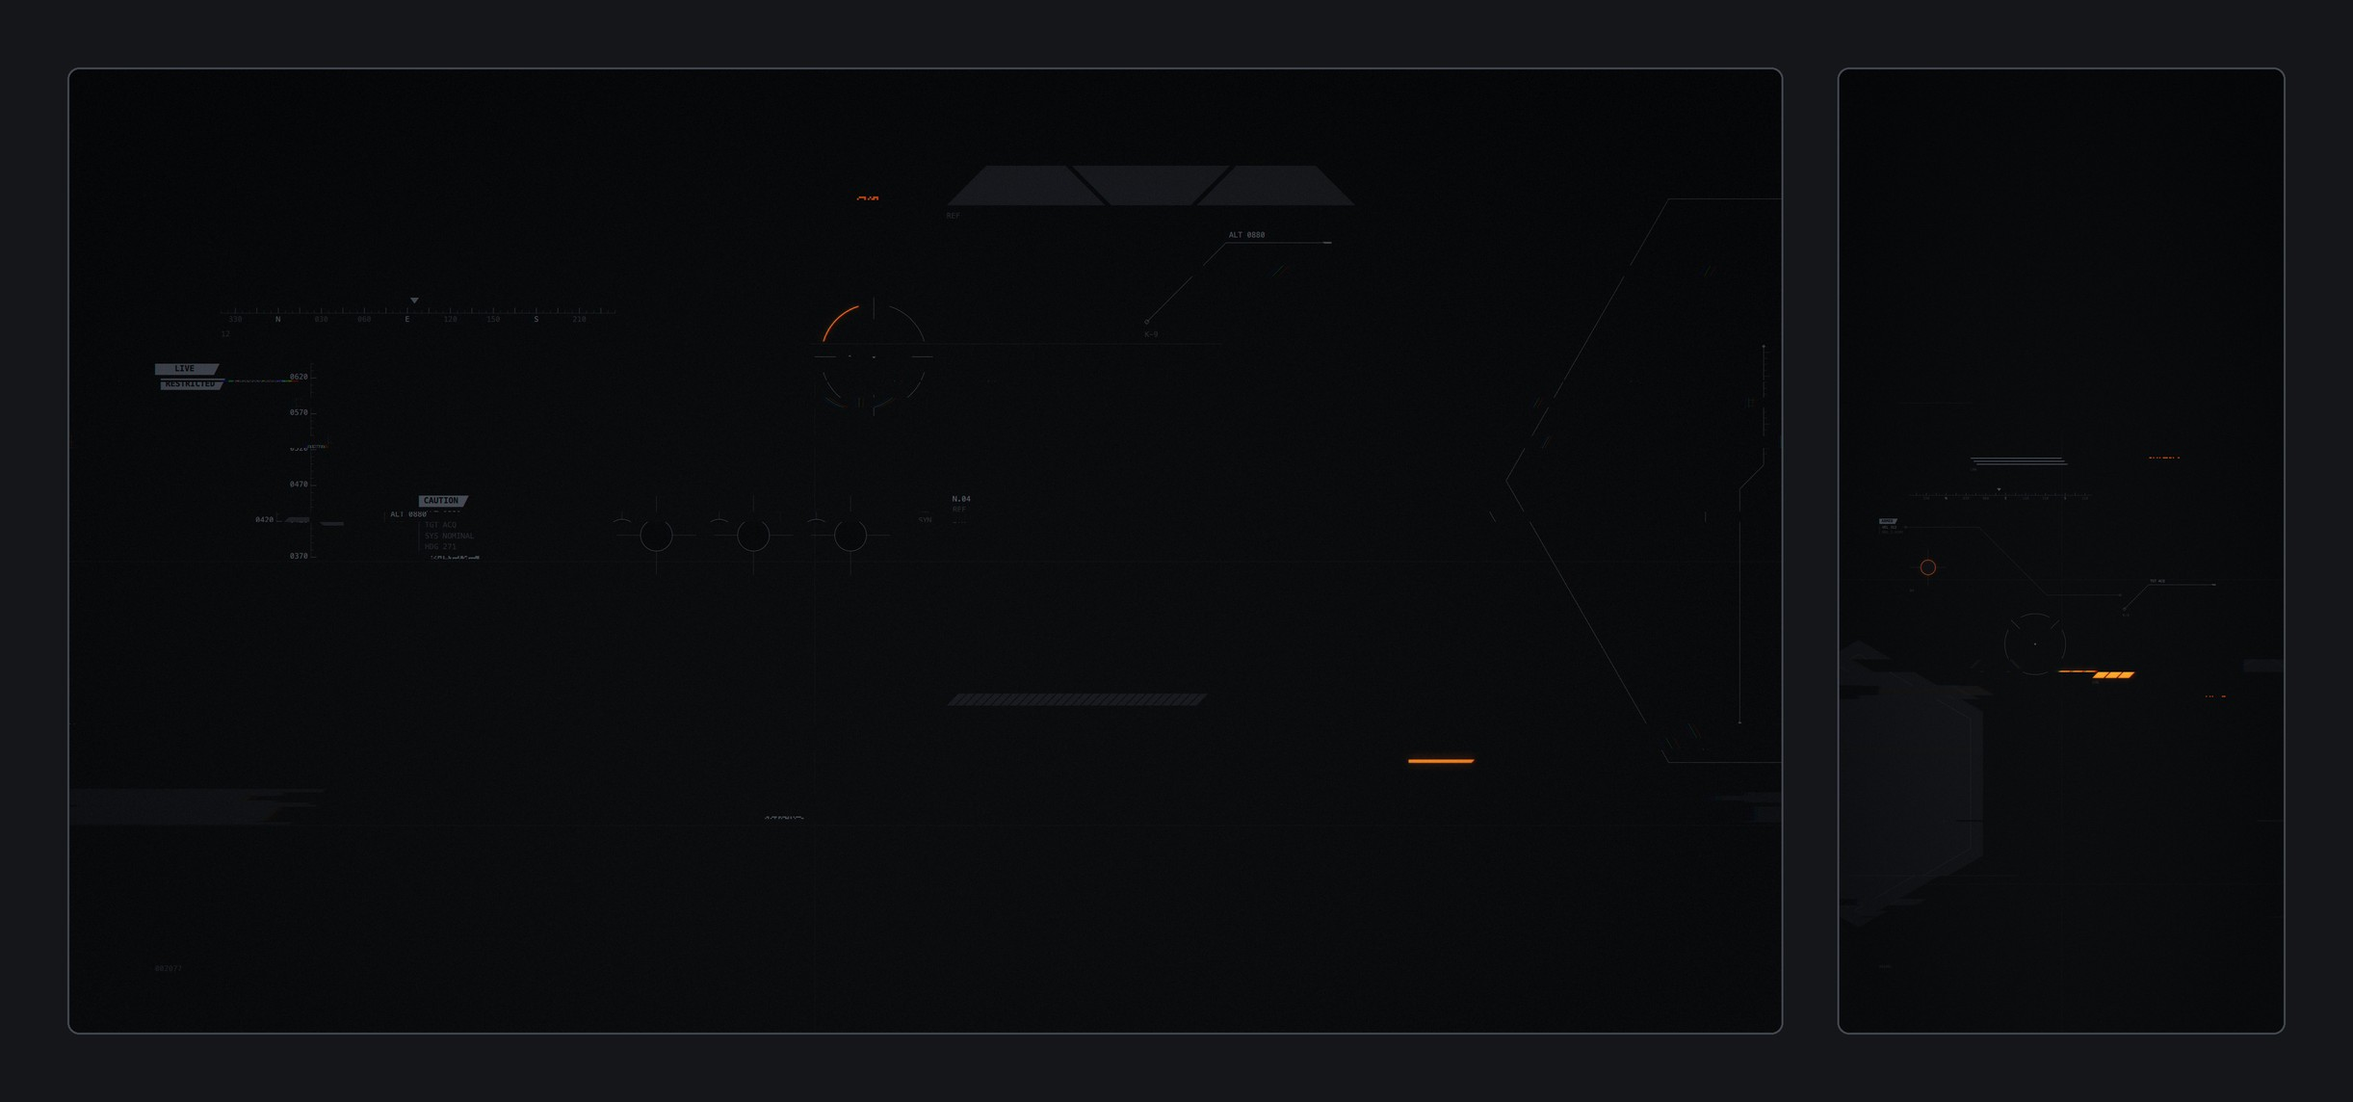
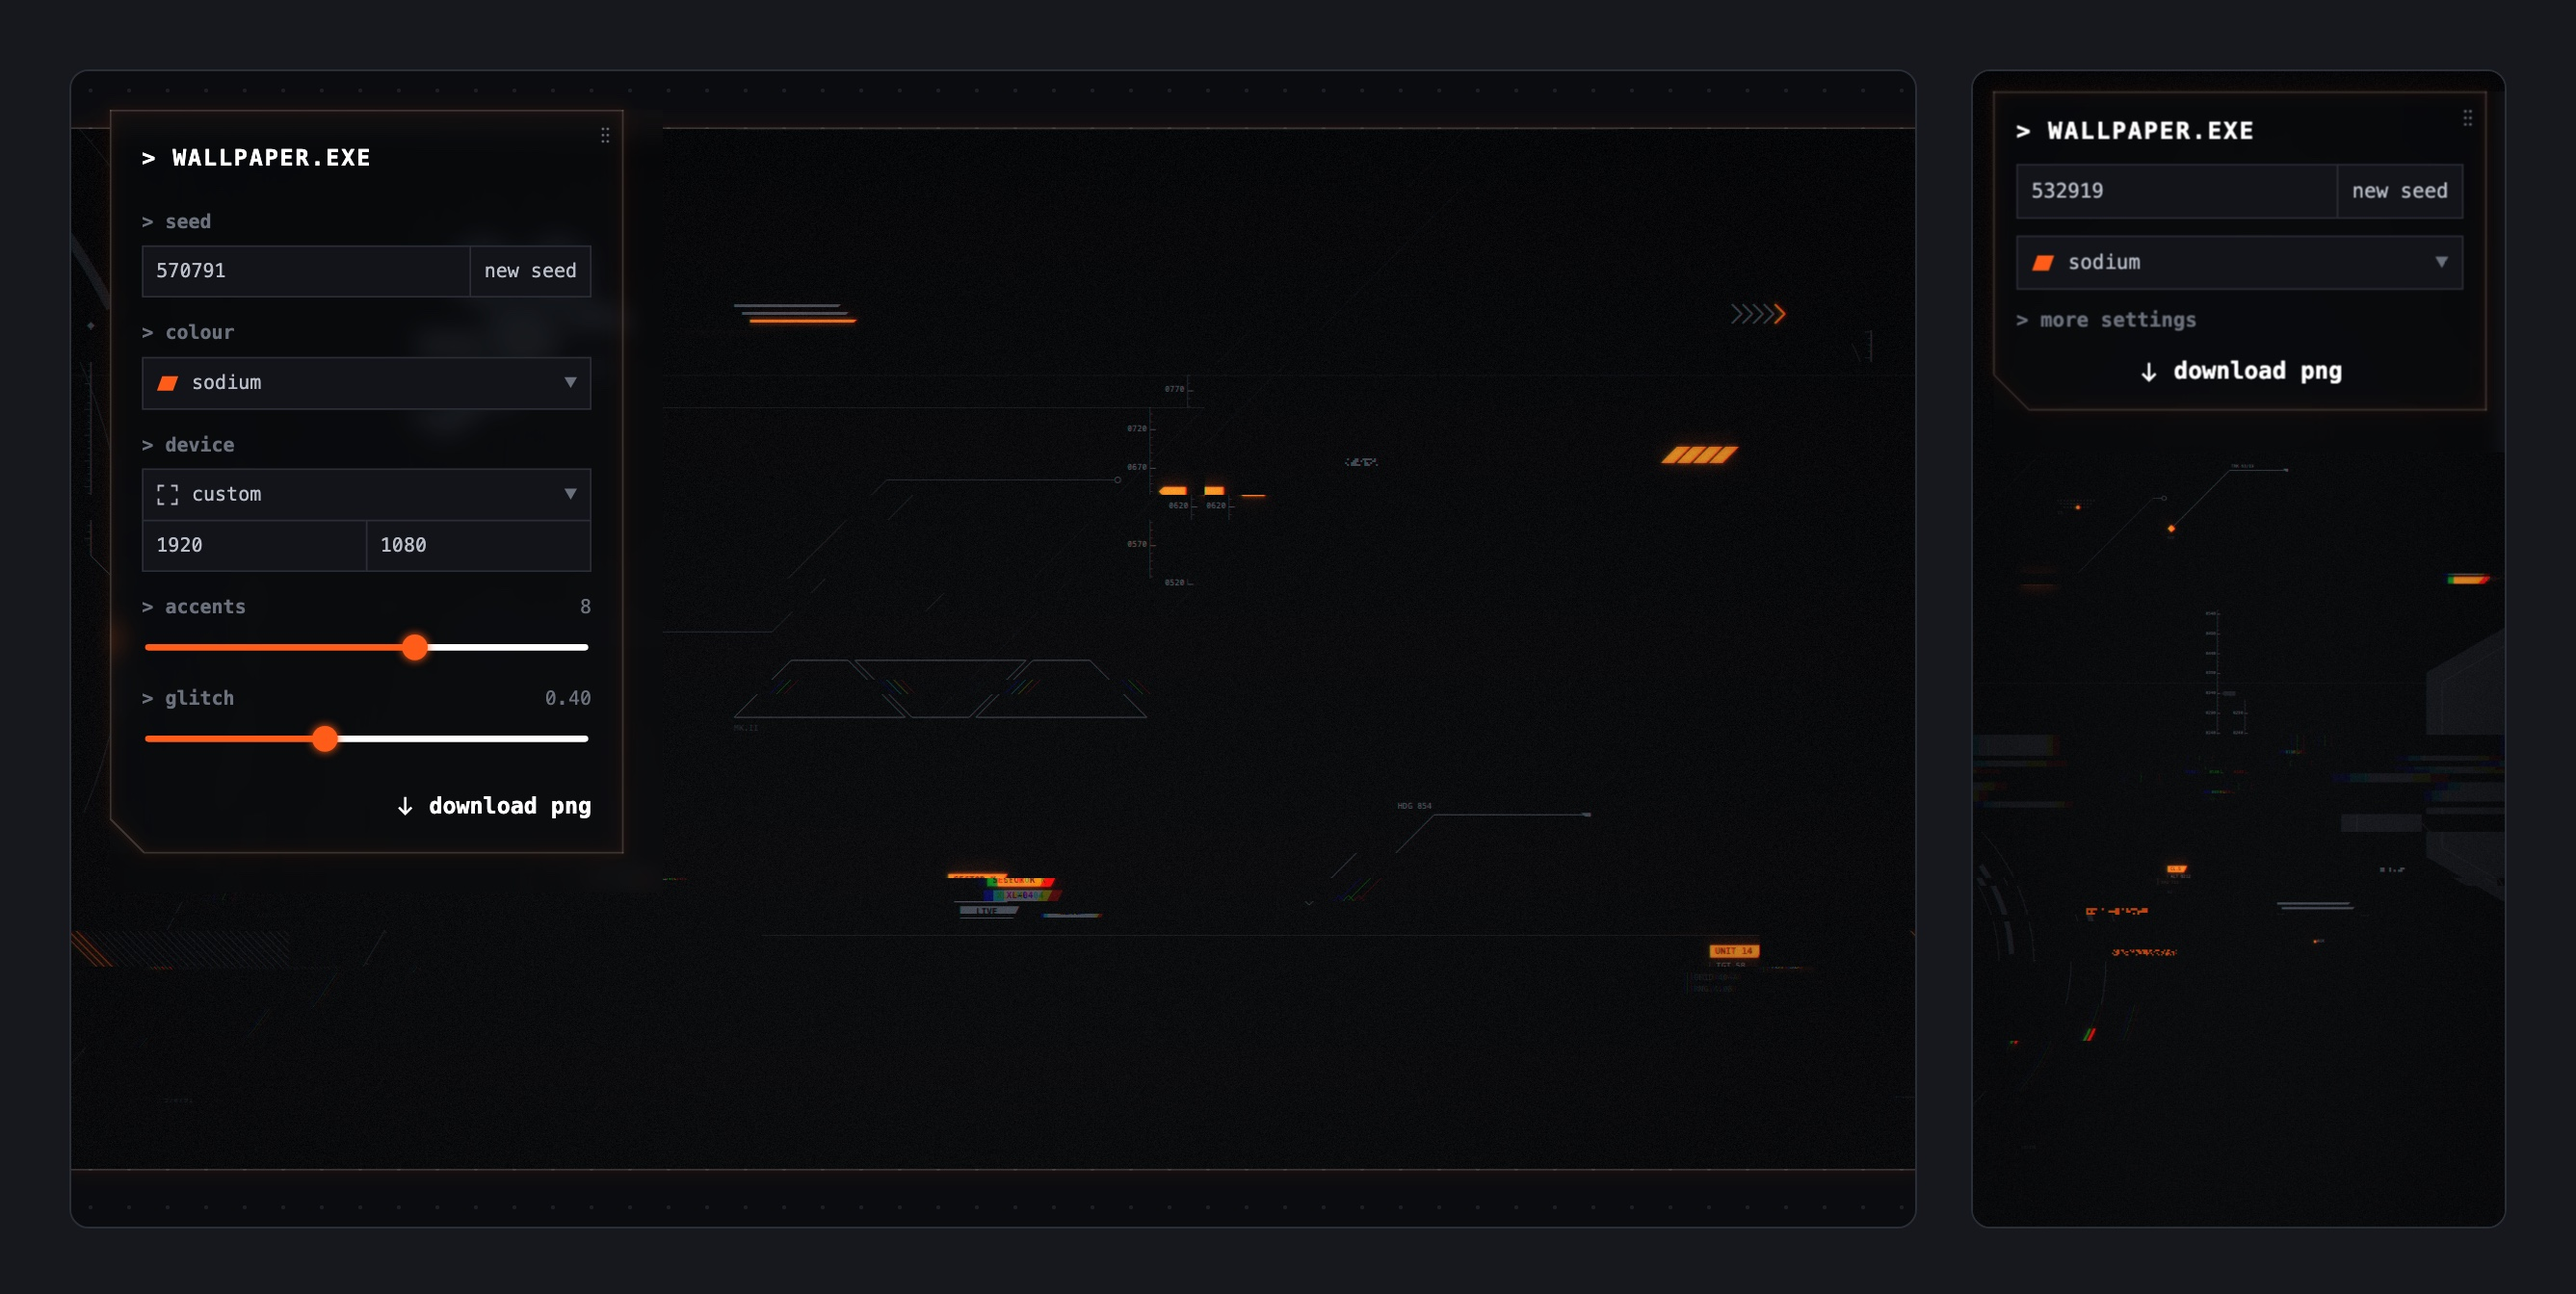
Show current app in README image

diff --git a/README.md b/README.md
@@ -2,7 +2,7 @@
 
 Generate minimal, glitchy cyberpunk wallpapers.
 
-![Desktop wallpaper (seed 2077) and phone wallpaper (seed 1001)](examples/preview.jpg)
+![The app on a desktop (seed 570791) and on a phone (seed 532919), both in sodium](examples/preview.jpg)
 
 ## Run locally
 
